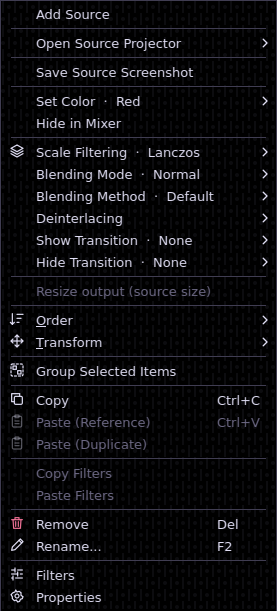
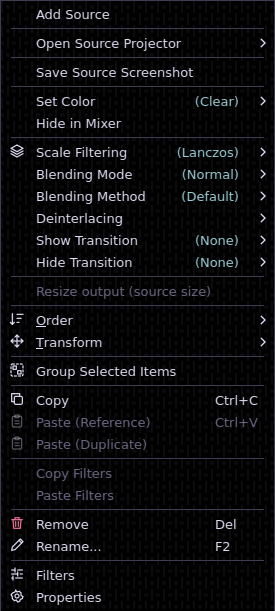
Draw selected submenu choices as trailing tinted values

diff --git a/src/augment.cpp b/src/augment.cpp
@@ -30,6 +30,8 @@
 #include <QStyle>
 #include <QSvgRenderer>
 #include <QWidgetAction>
+#include <QFontMetrics>
+#include <QScreen>
 #include <QPushButton>
 #include <QDebug>
 #include <algorithm>
@@ -388,7 +390,7 @@ class Overlay final : public QWidget {
     };
     struct SubmenuStatus {
         QPointer<QAction> action;
-        QString original, applied;
+        QString original, choice;
         QMetaObject::Connection connection;
     };
     std::vector<SubmenuStatus> submenuStatus_;
@@ -397,6 +399,7 @@ class Overlay final : public QWidget {
     std::vector<Slot> slots_;
     bool prepared_ = false;
     bool motionEnabled_=false;
+    int originalMinWidth_=-1, appliedMinWidth_=-1;
     QElapsedTimer elapsed_;
     QTimer *clock_;
     QPointer<QAction> hovered_;
@@ -407,6 +410,62 @@ class Overlay final : public QWidget {
         if(!row.isValid() || !rect().contains(row))return {};
         return menu->layoutDirection()==Qt::RightToLeft ?
             QRect(row.right()-25,row.top(),26,row.height()) : QRect(row.left(),row.top(),26,row.height());
+    }
+    QString actionLabel(const QString &raw) const {
+        QString result=raw.section(QChar(9),0,0);
+        result.replace("&&",QString(QChar(1)));
+        result.remove('&');
+        result.replace(QChar(1),'&');
+        return result.trimmed();
+    }
+    QRect valueRegion(const SubmenuStatus &status) const {
+        if(!status.action||status.choice.isEmpty()||
+           !menu->actions().contains(status.action))return {};
+        const QRect row=menu->actionGeometry(status.action);
+        if(!row.isValid()||!rect().contains(row))return {};
+        const QFontMetrics metrics(menu->font());
+        const int labelWidth=metrics.horizontalAdvance(actionLabel(status.original));
+        const int iconInset=35, gap=12, arrowInset=32;
+        if(menu->layoutDirection()==Qt::RightToLeft) {
+            const int start=row.left()+arrowInset;
+            const int end=row.right()-iconInset-labelWidth-gap;
+            return QRect(start,row.top(),qMax(0,end-start),row.height());
+        }
+        const int start=row.left()+iconInset+labelWidth+gap;
+        const int end=row.right()-arrowInset;
+        return QRect(start,row.top(),qMax(0,end-start),row.height());
+    }
+    void reserveValueSpace() {
+        if(submenuStatus_.empty())return;
+        const QFontMetrics metrics(menu->font());
+        int required=0;
+        for(const auto &status:submenuStatus_)if(status.action&&!status.choice.isEmpty()){
+            const int width=35+metrics.horizontalAdvance(actionLabel(status.original))+
+                12+metrics.horizontalAdvance("("+status.choice+")")+32;
+            required=qMax(required,width);
+        }
+        if(required<=0)return;
+        auto *screen=menu->screen();
+        const int maxWidth=screen?screen->availableGeometry().width()-12:required;
+        const int desired=qMin(required,qMax(120,maxWidth));
+        if(desired>menu->minimumWidth()){
+            menu->setMinimumWidth(desired);
+            appliedMinWidth_=desired;
+            menu->adjustSize();
+        }
+    }
+    void setChoice(size_t index,const QString &choice){
+        if(index>=submenuStatus_.size())return;
+        auto &status=submenuStatus_[index];
+        if(!status.action)return;
+        const auto current=status.action->text();
+        if(current!=status.original)status.original=current; // OBS may rename a menu item
+        if(status.choice==choice)return;
+        status.choice=choice;
+        status.action->setProperty("_aftermarketSelectedChoice",
+            choice.isEmpty()?QVariant{}:QVariant(choice));
+        reserveValueSpace();
+        if(isVisible())update(valueRegion(status));
     }
     bool moving(const Slot &s,qint64 t) const {
         return motionEnabled_ && s.motion.enabled() && (t<s.delay+s.motion.duration || s.hover.running(t));
@@ -449,11 +508,13 @@ public:
     void restore() {
         for(auto &status:submenuStatus_) {
             QObject::disconnect(status.connection);
-            if(!status.action)continue;
-            if(status.action->text()==status.applied)status.action->setText(status.original);
-            status.action->setProperty("_aftermarketBaseText",QVariant());
+            if(status.action)
+                status.action->setProperty("_aftermarketSelectedChoice",QVariant());
         }
         submenuStatus_.clear();
+        if(originalMinWidth_>=0&&menu->minimumWidth()==appliedMinWidth_)
+            menu->setMinimumWidth(originalMinWidth_);
+        originalMinWidth_=-1;appliedMinWidth_=-1;
         clock_->stop();elapsed_.invalidate();hovered_.clear();motionEnabled_=false;
         hide();
         auto old = std::move(slots_);
@@ -527,38 +588,20 @@ public:
             a->setIconVisibleInMenu(true);
         }
         if(rules.enabled&&rules.showSubmenuSelections&&!menu->property("_aftermarketOverflowPage").toBool()) {
-            for(auto *action:menu->actions())if(action->menu()&&!action->property("_aftermarketOverflowAction").toBool()) {
+            originalMinWidth_=menu->minimumWidth();
+            for(auto *action:menu->actions())if(action->menu()&&
+                !action->property("_aftermarketOverflowAction").toBool()) {
                 auto *child=action->menu();
                 submenuStatus_.push_back({action,action->text(),{},{}});
                 const auto index=submenuStatus_.size()-1;
-                auto updateStatus=[this,index]{
-                    if(index>=submenuStatus_.size())return;
-                    auto &slot=submenuStatus_[index];
-                    if(!slot.action||!slot.action->menu())return;
-                    auto current=slot.action->text();
-                    if(!slot.applied.isEmpty()&&current!=slot.applied&&current!=slot.original)
-                        slot.original=current; // host changed the label, respect it
-                    const auto choice=submenuSelection(slot.action->menu());
-                    const auto next=choice.isEmpty()?slot.original:slot.original+"  ·  "+choice;
-                    if(current!=next)slot.action->setText(next);
-                    slot.applied=next;
-                    slot.action->setProperty("_aftermarketBaseText",slot.original);
-                };
-                updateStatus();
+                setChoice(index,submenuSelection(child));
                 submenuStatus_[index].connection=connect(child,&QMenu::aboutToShow,this,[this,index] {
-                    // Qt/OBS may refresh check marks during aboutToShow. Read
-                    // them on the following event-loop turn, not beforehand.
-                    QTimer::singleShot(0,this,[this,index] {
+                    // OBS updates native checked actions during aboutToShow.
+                    QTimer::singleShot(0,this,[this,index]{
                         if(!menu->isVisible()||index>=submenuStatus_.size())return;
                         auto &slot=submenuStatus_[index];
                         if(!slot.action||!slot.action->menu())return;
-                        const auto choice=submenuSelection(slot.action->menu());
-                        const auto next=choice.isEmpty()?slot.original:slot.original+"  ·  "+choice;
-                        if(slot.action->text()==slot.applied&&slot.action->text()!=next) {
-                            slot.action->setText(next);
-                            slot.applied=next;
-                            menu->adjustSize();
-                        }
+                        setChoice(index,submenuSelection(slot.action->menu()));
                     });
                 });
             }
@@ -567,7 +610,7 @@ public:
             rules.log(QString("Painted menu candidates: %1").arg(slots_.size()));
     }
     void present() {
-        if (slots_.empty()) return;
+        if (slots_.empty()&&submenuStatus_.empty()) return;
         setGeometry(menu->rect());
         raise(); show(); update();
         if(motionEnabled_ && !elapsed_.isValid()) {
@@ -596,6 +639,25 @@ protected:
         QPainter p(this);
         p.setRenderHint(QPainter::Antialiasing);
         const auto t=now();
+        // Draw selected submenu values independently from QAction text.
+        // They occupy a consistent trailing column before Qt's native arrow.
+        for(const auto &status:submenuStatus_){
+            if(!status.action||!status.action->isVisible()||status.choice.isEmpty())continue;
+            const auto region=valueRegion(status);
+            if(region.width()<14||!event->region().intersects(region))continue;
+            const QFontMetrics metrics(menu->font());
+            const int available=qMax(0,region.width()-metrics.horizontalAdvance("()"));
+            if(!available)continue;
+            const QString visible="("+metrics.elidedText(status.choice,Qt::ElideRight,available)+")";
+            const QColor tint=menu->palette().color(QPalette::Link);
+            p.save();
+            p.setClipRect(region);
+            p.setFont(menu->font());
+            p.setPen(tint.isValid()?tint:menu->palette().color(QPalette::Text));
+            const int side=menu->layoutDirection()==Qt::RightToLeft?Qt::AlignLeft:Qt::AlignRight;
+            p.drawText(region,side|Qt::AlignVCenter|Qt::TextSingleLine,visible);
+            p.restore();
+        }
         for (auto &s : slots_) {
             if (!s.action || !s.action->isVisible() || s.action->isCheckable() ||
                 s.action->icon().cacheKey()!=s.key || !menu->actions().contains(s.action)) continue;

diff --git a/tests/menu-test.cpp b/tests/menu-test.cpp
@@ -341,8 +341,27 @@ int main(int argc, char **argv) {
         REQUIRE(c.setShowSubmenuSelections(true));
         REQUIRE(c.showSubmenuSelections());
         root.popup(QPoint(50,50));app.processEvents();
-        REQUIRE(scale->menuAction()->text().contains("Lanczos"));
-        REQUIRE(color->menuAction()->text().contains("#ca4141"));
+        REQUIRE(scale->menuAction()->text()=="Scale Filtering");
+        REQUIRE(scale->menuAction()->property("_aftermarketSelectedChoice").toString()=="Lanczos");
+        REQUIRE(root.findChild<QWidget*>("obs-ui-augment-overlay")->isVisible());
+        const auto selectedRow=root.actionGeometry(scale->menuAction());
+        REQUIRE(root.actionAt(selectedRow.center())==scale->menuAction());
+        REQUIRE(root.width()>=root.fontMetrics().horizontalAdvance("Scale Filtering")+
+            root.fontMetrics().horizontalAdvance("(Lanczos)")+60);
+        QImage selectedPixels=root.grab().toImage().convertToFormat(QImage::Format_RGB32);
+        int coloredRightPixels=0;
+        const auto accent=root.palette().color(QPalette::Link);
+        const auto textColor=root.palette().color(QPalette::Text);
+        for(int y=selectedRow.top()+2;y<selectedRow.bottom()-2;++y)
+            for(int x=selectedRow.center().x();x<selectedRow.right()-24;++x){
+                const auto c=selectedPixels.pixelColor(x,y);
+                const int dl=qAbs(c.red()-accent.red())+qAbs(c.green()-accent.green())+qAbs(c.blue()-accent.blue());
+                const int dt=qAbs(c.red()-textColor.red())+qAbs(c.green()-textColor.green())+qAbs(c.blue()-textColor.blue());
+                if(dl<dt)++coloredRightPixels;
+            }
+        REQUIRE(coloredRightPixels>10);
+        REQUIRE(color->menuAction()->text()=="Set Color");
+        REQUIRE(color->menuAction()->property("_aftermarketSelectedChoice").toString()=="#ca4141");
         REQUIRE(empty->menuAction()->text()=="Other");
         auto snap=augment::inspectWidget(&root,root.mapToGlobal(root.actionGeometry(scale->menuAction()).center()));
         REQUIRE(snap.isMenu&&snap.actions.size()==4);
@@ -358,6 +377,8 @@ int main(int argc, char **argv) {
         root.hide();app.processEvents();
         REQUIRE(scale->menuAction()->text()=="Scale Filtering");
         REQUIRE(color->menuAction()->text()=="Set Color");
+        REQUIRE(!scale->menuAction()->property("_aftermarketSelectedChoice").isValid());
+        REQUIRE(root.minimumWidth()==0);
         // OBS's preset color buttons are not checkable QActions. The chosen
         // one receives a 2px border on its QWidgetAction button.
         swatch->setChecked(false);
@@ -370,7 +391,8 @@ int main(int argc, char **argv) {
         swatches->setDefaultWidget(colors);
         color->addAction(swatches);
         root.popup(QPoint(50,50));app.processEvents();
-        REQUIRE(color->menuAction()->text().contains("Green"));
+        REQUIRE(color->menuAction()->text()=="Set Color");
+        REQUIRE(color->menuAction()->property("_aftermarketSelectedChoice").toString()=="Green");
         const auto colorSnapshot=augment::inspectWidget(&root,
             root.mapToGlobal(root.actionGeometry(color->menuAction()).center()));
         bool greenPreset=false;
@@ -381,7 +403,8 @@ int main(int argc, char **argv) {
         REQUIRE(color->menuAction()->text()=="Set Color");
         lanczos->setChecked(false);bilinear->setChecked(true);
         root.popup(QPoint(50,50));app.processEvents();
-        REQUIRE(scale->menuAction()->text().contains("Bilinear"));
+        REQUIRE(scale->menuAction()->text()=="Scale Filtering");
+        REQUIRE(scale->menuAction()->property("_aftermarketSelectedChoice").toString()=="Bilinear");
         root.hide();app.processEvents();
         bilinear->setChecked(false);disable->setChecked(true);
         REQUIRE(c.setShowSubmenuSelections(false));
@@ -397,16 +420,35 @@ int main(int argc, char **argv) {
             first->setChecked(false);second->setChecked(true);
         });
         lazyRoot.popup(QPoint(60,60));app.processEvents();
-        REQUIRE(lazy->menuAction()->text().contains("First"));
+        REQUIRE(lazy->menuAction()->text()=="Lazy options");
+        REQUIRE(lazy->menuAction()->property("_aftermarketSelectedChoice").toString()=="First");
         lazy->popup(QPoint(290,60));app.processEvents();
-        REQUIRE(lazy->menuAction()->text().contains("Second"));
+        REQUIRE(lazy->menuAction()->text()=="Lazy options");
+        REQUIRE(lazy->menuAction()->property("_aftermarketSelectedChoice").toString()=="Second");
         lazy->hide();lazyRoot.hide();app.processEvents();
         REQUIRE(lazy->menuAction()->text()=="Lazy options");
+        REQUIRE(!lazy->menuAction()->property("_aftermarketSelectedChoice").isValid());
         // Multiple checked options are not an unambiguous single choice.
         first->setChecked(true);
         lazyRoot.popup(QPoint(60,60));app.processEvents();
         REQUIRE(lazy->menuAction()->text()=="Lazy options");
         lazyRoot.hide();app.processEvents();
+        // RTL keeps the choice on the trailing (left) edge, and never
+        // takes over Qt's native submenu hit targets.
+        QMenu rtl;
+        rtl.setLayoutDirection(Qt::RightToLeft);
+        auto *choiceMenu=rtl.addMenu("Filtering");
+        auto *choice=choiceMenu->addAction("Lanczos");
+        choice->setCheckable(true);choice->setChecked(true);
+        rtl.popup(QPoint(55,55));app.processEvents();
+        const auto rtlRow=rtl.actionGeometry(choiceMenu->menuAction());
+        REQUIRE(rtl.actionAt(rtlRow.center())==choiceMenu->menuAction());
+        REQUIRE(choiceMenu->menuAction()->text()=="Filtering");
+        REQUIRE(choiceMenu->menuAction()->property("_aftermarketSelectedChoice").toString()=="Lanczos");
+        REQUIRE(rtl.findChild<QWidget*>("obs-ui-augment-overlay")->isVisible());
+        rtl.hide();app.processEvents();
+        REQUIRE(choiceMenu->menuAction()->text()=="Filtering");
+        REQUIRE(!choiceMenu->menuAction()->property("_aftermarketSelectedChoice").isValid());
     }
     std::cout << "menu rendering, preservation, reload, cleanup passed\n";
 }

diff --git a/src/inspector.cpp b/src/inspector.cpp
@@ -517,13 +517,13 @@ Inspector::Inspector(Controller &controller,QWidget *parent,Panels *panels):QDia
     rl->addWidget(ui->hideEntry);
     ui->showValues=new QCheckBox("Show selected submenu choices",right);
     ui->showValues->setObjectName("augment-show-submenu-selections");
-    ui->showValues->setToolTip("Show the one checked native submenu choice alongside its parent, when OBS exposes one. Applied the next time a menu opens; original labels restore on close.");
+    ui->showValues->setToolTip("Draw the currently checked choice in parentheses at the trailing edge, using the active theme’s link color. Native labels and submenu arrows stay intact. Applied when menus reopen.");
     ui->showValues->setChecked(controller.showSubmenuSelections());
     rl->addWidget(ui->showValues);
     connect(ui->showValues,&QCheckBox::toggled,this,[this](bool enabled){
         QString error;
         if(ui->controller.setShowSubmenuSelections(enabled,&error))
-            ui->status->setText(enabled?"Checked submenu choices will appear on parent labels when menus reopen.":"Original parent labels will be used on next popup.");
+            ui->status->setText(enabled?"Selected choices will appear right-aligned in parentheses when menus reopen.":"Selected choice annotations disabled for the next popup.");
         else {
             const QSignalBlocker blocker(ui->showValues);
             ui->showValues->setChecked(ui->controller.showSubmenuSelections());

diff --git a/ACTIVE_WORK.md b/ACTIVE_WORK.md
@@ -363,3 +363,33 @@ persistent named studio presets, arbitrary drag arrangement of the two
 native video panels, verification of actual broadcast/record output, Wayland,
 Windows/macOS, RTL/multimonitor stress, and support beyond verified OBS 32.2.0
 Qt 6.4.2.
+
+## Slice 19 — trailing selected submenu values (2026-11-20)
+
+User wanted Show selected submenu choices to stop appending plain text:
+right-align the active value, use a distinct secondary/accent color, and
+enclose it in parentheses instead of separating it with a dot/dash.
+Preserved the existing setting (opt-in). Replaced temporary QAction text
+rewriting with a painter-owned, mouse-transparent overlay row for choices.
+Original QAction text remains unmodified for native shortcuts, menus,
+inspector matching, and accessibility label continuity. Values are right-
+aligned before the native submenu arrow (mirrored in RTL), colored from
+the active Qt theme's QPalette::Link, and elided inside parentheses when
+space is constrained. The menu's minimum width is increased only as
+needed for non-overlapping labels and trailing values and restored on hide
+unless an external actor modified it. The transient choice property is
+also cleared on hide, and asynchronous submenu updates repaint without
+changing native text. UI tooltip/status and README wording now match.
+
+TDD RED on the old QAction title mutation, then GREEN. Tests assert
+unchanged native labels, trailing theme-aware nontext pixels, native hit
+targets, animated/recomputed choices (first/Lanczos/Bilinear), color preset,
+state/property cleanup, minimum width restoration, RTL and setting off.
+Actual isolated OBS 32.2.0 / Colorway screenshot verified source menu's
+parent labels at left; colored, parenthesized choices aligned at right;
+original arrow remains at far edge. Clicked the real Scale Filtering submenu
+and selected Lanczos; reopened menu showed (Lanczos) aligned with other
+value labels. Replaced README's prior captured screenshot with verified
+native menu pixels. No modification to user's real OBS state or rules,
+no GitHub push. Further validation: other platforms/themes, very narrow
+screens and custom QStyle arrangements.

diff --git a/README.md b/README.md
@@ -240,18 +240,21 @@ separators, and OBS's color-preset buttons. Leave it unchecked for the
 original concise top-level list. Selecting a nested action retains that
 action's own submenu scope when inspecting or saving supported rules.
 
-Enable **Show selected submenu choices** to append the one explicitly
-selected choice to its parent in the *open* native menu:
+Enable **Show selected submenu choices** to paint the one explicitly
+selected choice in a **right-aligned trailing column**, using the current
+theme's link/accent color and parentheses, for example:
 
-- **Scale Filtering · Lanczos** (or Disable, Bilinear, Bicubic, etc.)
-- **Blending Mode · Normal**
-- **Set Color · Red** (also supports OBS's eight selected preset swatches)
+- **Scale Filtering** — *(Lanczos)* aligned near the submenu arrow
+- **Blending Mode** — *(Normal)* aligned at the same right edge
+- **Set Color** — *(Red)* (also supports OBS's eight selected preset swatches)
 
 The toggle is off by default and persists as the root-level
-`"showSubmenuSelections": true` option in `rules.json`. It does not
-rename or replace native actions permanently: their original labels are
-restored on menu dismissal. If a submenu exposes no unambiguous checked
-choice, the parent remains unchanged. Dynamically populated submenus
+`"showSubmenuSelections": true` option in `rules.json`. The main
+QAction labels are **never rewritten** to display values. A transparent
+drawing layer adds the current choice independently; native arrows and hit
+targets stay functional, and the layer disappears when the menu closes.
+Long values are elided as space requires. If a submenu exposes no
+unambiguous checked choice, the parent remains unchanged. Dynamically populated submenus
 may need to be opened before capturing their full list.
 
 | Selected choices in OBS | Expanded inspector menu tree |
